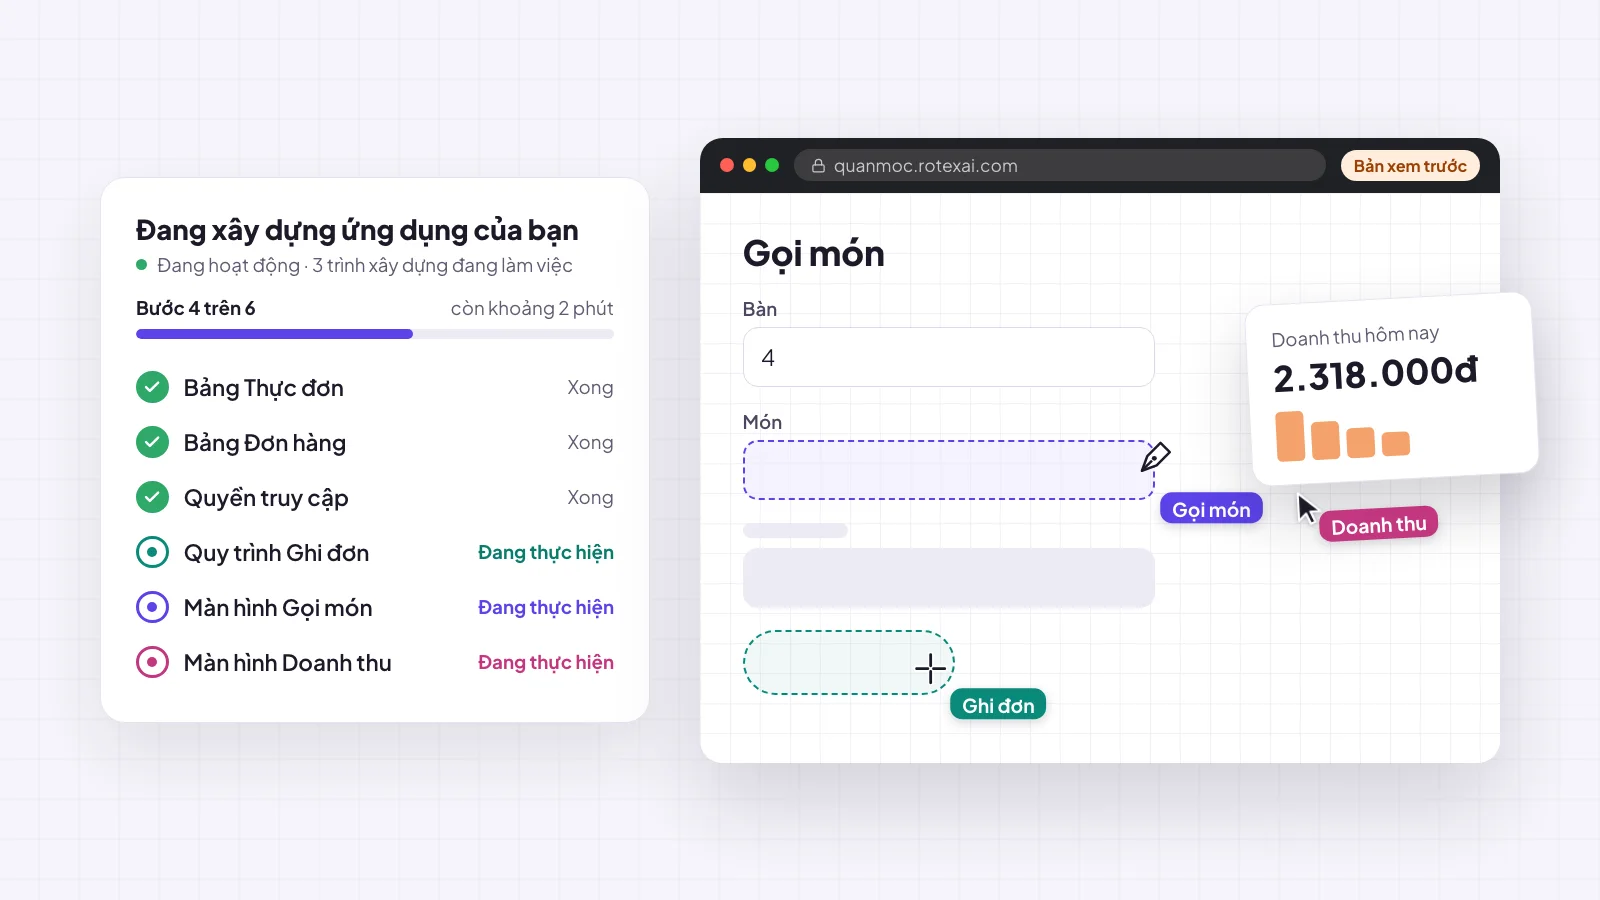
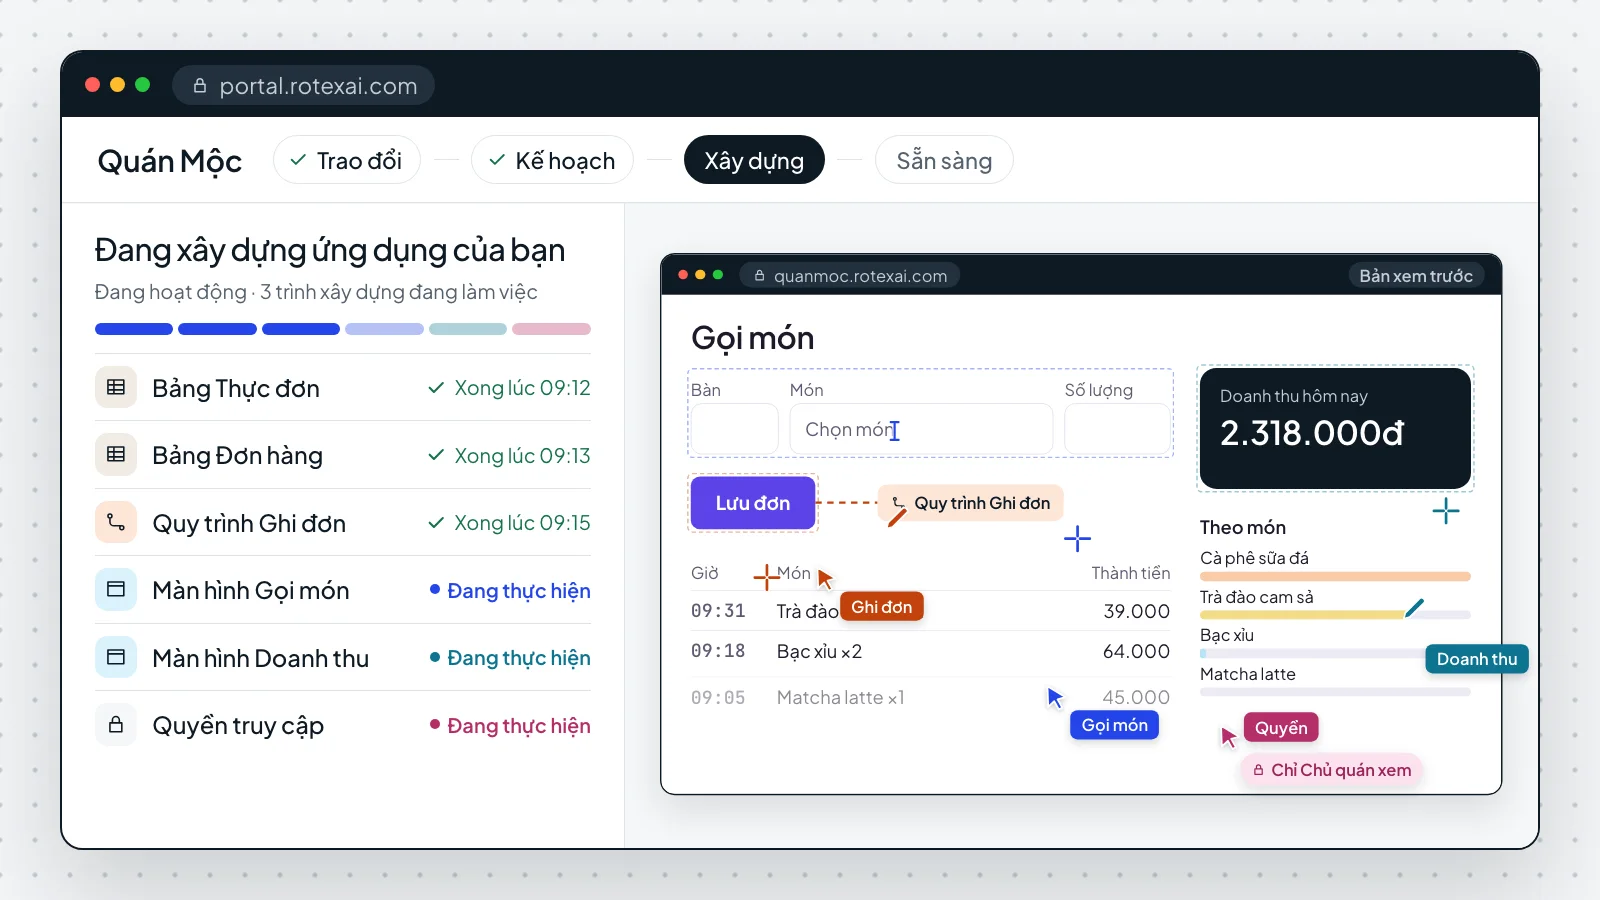
feat(landing): redraw the four step images in the hero v3 look
The step cards still showed the v2 portal after the hero video moved to v3 on the redesigned portal. Replace the four images with stills drawn from the v3 components so the cards match the video. Card titles and lines are unchanged. Point the comment above STEPS at the new source and render command.

Requirement: docs/specs/261126-landing-hero-v3.md R15

diff --git a/src/App.jsx b/src/App.jsx
@@ -6,8 +6,8 @@ import { Icon, Mark, Popover, SiteFooter, SiteHeader, TypeMenu } from './shared.
 
 // Landing page. Specs: aos docs/specs/261107-landing-redesign.md, restyled by 261117-landing-airtable-style.md.
 
-// The four stages of the hero video, one image each, drawn for these cards (aos video/videos/landing-hero/src/cards/HowCards.tsx;
-// scripts/cards.sh renders public/how/).
+// The four stages of the hero video, one image each, drawn for these cards (aos video/videos/landing-hero/src/v3/cards.tsx;
+// `scripts/cards.sh v3` renders public/how/).
 const STEPS = [
   {
     id: 'buoc-1',
